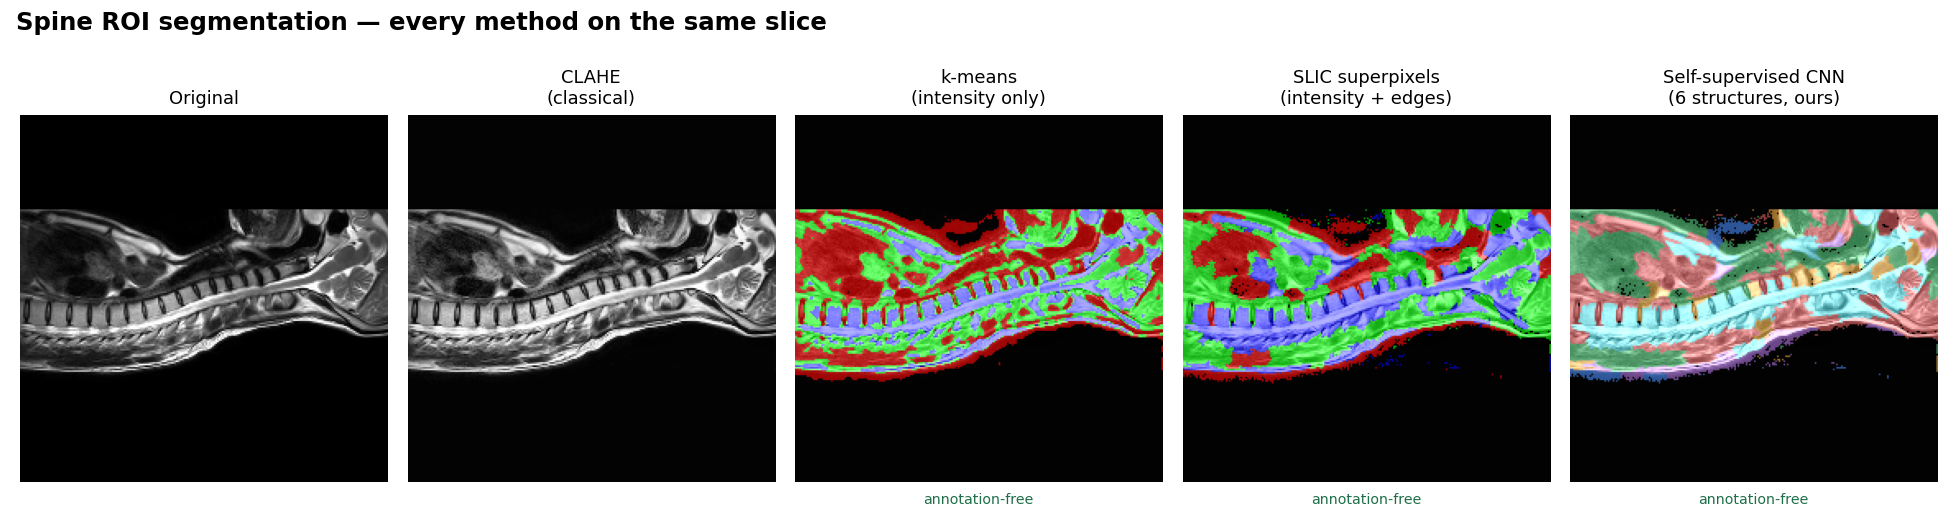
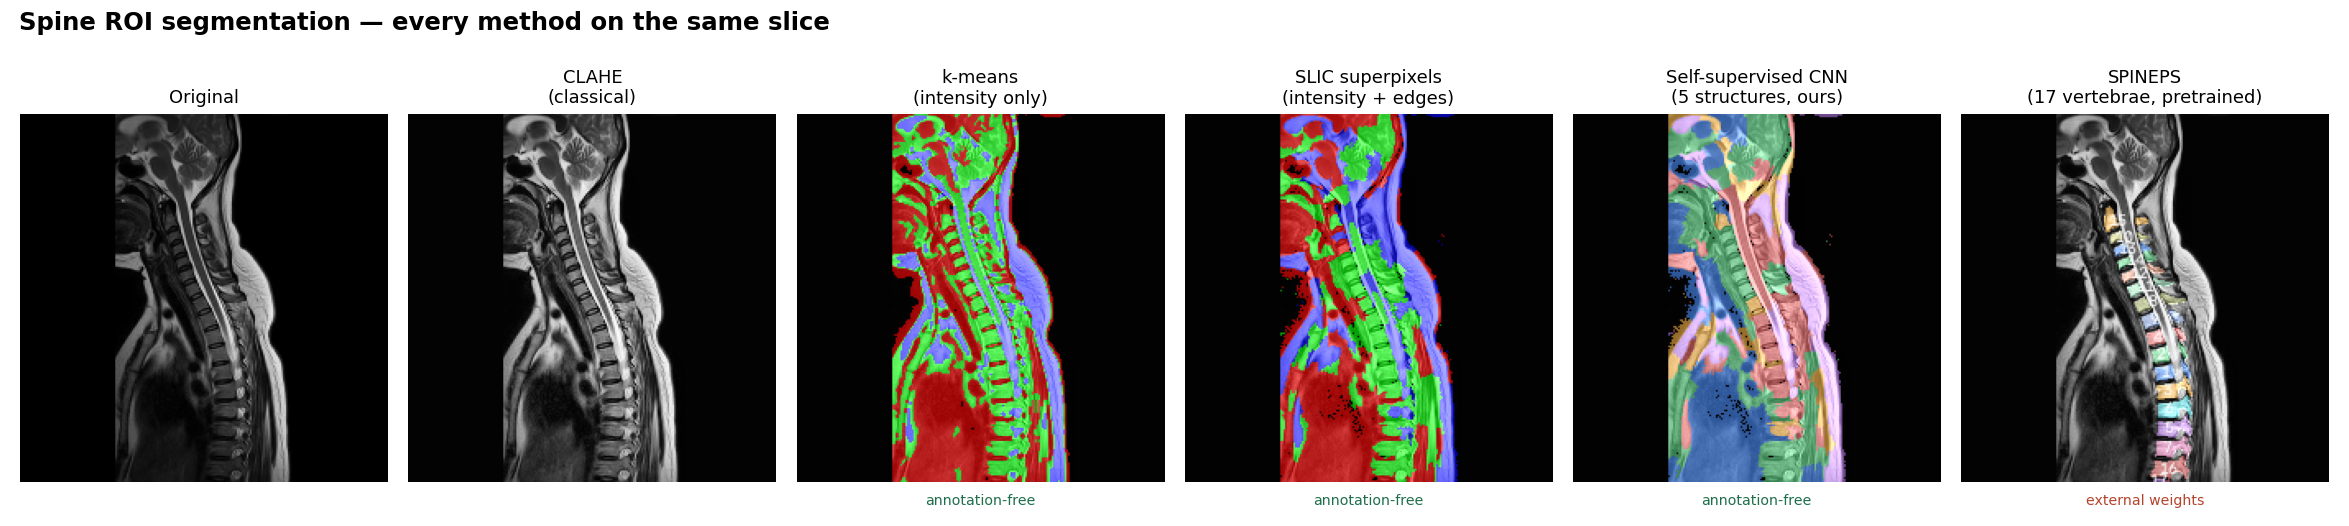
Complete SPINEPS per-vertebra instance segmentation
Produces 17 numbered vertebra instances on spine case SP11, alongside the
13-structure semantic mask, as the sixth column of the method comparison.

Two problems had to be solved:

Instance phase OOM on a 6 GB card. It reads the semantic mask SPINEPS just
saved, which is written in SPINEPS internal 0.75mm space (512x512x53)
regardless of input resolution, so downsampling the input changed nothing --
the retry failed at a byte-identical 12.44 GiB. Resolved by running that phase
on CPU (401 s total, 25 s per vertebra body).

Misaligned overlay. SPINEPS resamples AND reorients to a canonical axis order,
so masks cannot be matched to the scan by array index. Added
mask_in_scan_space() to map them back through the image affine with
nearest-neighbour resampling, since interpolating integer labels would invent
classes.

Also: the comparison figure now derives image and mask from one common slice,
so its "same slice" claim holds; both are rotated together for display.

diff --git a/src/spine_method_comparison.py b/src/spine_method_comparison.py
@@ -37,11 +37,42 @@ def _ov(img01, labels, colour_fn=None):
     return cv2.cvtColor(cv2.addWeighted(base, 0.7, col, 0.6, 0), cv2.COLOR_BGR2RGB)
 
 
-def build(nifti_path: str, spineps_instance: str = None):
+def _pick_slice(nifti_path: str, spineps_instance: str = None):
+    """Return (image_slice_in_[0,1], instance_label_map_or_None) on ONE common
+    slice. The figure's whole claim is that every method is shown on the same
+    slice, so the SPINEPS panel cannot be allowed to drift to a different z:
+    when a mask is supplied, the slice it labels most densely is the one every
+    panel uses.
+    """
     sls = extract_training_slices(load_volume(nifti_path))
     if not sls:
+        return None, None
+    if not (spineps_instance and os.path.exists(spineps_instance)):
+        return sls[len(sls) // 2], None
+
+    from spineps_runner import mask_in_scan_space
+    vol = load_volume(nifti_path)
+    m = mask_in_scan_space(spineps_instance, nifti_path)
+    ax = int(np.argmin(m.shape))
+    counts = [(np.take(m, z, axis=ax) > 0).sum() for z in range(m.shape[ax])]
+    z = int(np.argmax(counts))
+    img = np.squeeze(np.take(vol, z, axis=int(np.argmin(vol.shape)))).astype(np.float32)
+    img = (img - img.min()) / (np.ptp(img) + 1e-8)
+    # NIfTI voxel axes are not display axes: taken raw, a sagittal spine comes
+    # out lying on its side. Rotate image and mask together so the rotation
+    # cannot desynchronise them.
+    img, inst = np.rot90(img), np.rot90(np.take(m, z, axis=ax))
+    size = sls[0].shape[0]
+    img = np.clip(cv2.resize(img, (size, size), interpolation=cv2.INTER_CUBIC), 0, 1)
+    inst = cv2.resize(np.ascontiguousarray(inst).astype(np.int32), (size, size),
+                      interpolation=cv2.INTER_NEAREST)
+    return img.astype(np.float32), inst
+
+
+def build(nifti_path: str, spineps_instance: str = None):
+    img, inst = _pick_slice(nifti_path, spineps_instance)
+    if img is None:
         print("no usable slices"); return
-    img = sls[len(sls) // 2]
     enh = clahe_enhance(img)
 
     panels = [("Original", cv2.cvtColor((img * 255).astype(np.uint8), cv2.COLOR_GRAY2RGB), None)]
@@ -59,11 +90,11 @@ def build(nifti_path: str, spineps_instance: str = None):
     except Exception as e:
         print("deep segmentation unavailable:", e)
 
-    if spineps_instance and os.path.exists(spineps_instance):
+    if inst is not None:
         try:
-            from spineps_runner import instance_slice, overlay as sp_overlay
-            inst = instance_slice(spineps_instance)
-            panels.append(("SPINEPS\n(pretrained reference)",
+            from spineps_runner import overlay as sp_overlay
+            n_v = len([u for u in np.unique(inst) if u > 0])
+            panels.append((f"SPINEPS\n({n_v} vertebrae, pretrained)",
                            cv2.cvtColor(sp_overlay(enh, inst), cv2.COLOR_BGR2RGB),
                            "external weights"))
         except Exception as e:

diff --git a/src/spineps_runner.py b/src/spineps_runner.py
@@ -85,10 +85,41 @@ def run(nifti_path: str, out_dir: str = None, timeout: int = 1800) -> dict:
             "error": None if ok else "no mask produced — see stderr"}
 
 
-def instance_slice(instance_path: str, z: int = None) -> np.ndarray:
-    """Mid-sagittal slice of the instance mask, as an integer label map."""
+def mask_in_scan_space(mask_path: str, scan_path: str) -> np.ndarray:
+    """Resample a SPINEPS mask back into the ORIGINAL scan's voxel grid.
+
+    Necessary because SPINEPS does not return the mask on the input grid: it
+    resamples to ~0.8 mm isotropic AND reorients to a canonical axis order
+    before inference (measured: a 512x512x12 input came back as 503x503x53).
+    Matching masks to the scan by array index therefore produces an overlay
+    that is visibly offset and rotated — that failure is a rendering error,
+    not a segmentation error.
+
+    The affine of each image maps its voxel indices to the same physical
+    (scanner) space, so composing the two affines maps mask voxels onto scan
+    voxels correctly regardless of resolution or orientation. Nearest-neighbour
+    only: these are integer labels, interpolation would invent new ones.
+    """
     import nibabel as nib
-    vol = nib.load(instance_path).get_fdata()
+    from nibabel.processing import resample_from_to
+    m, s = nib.load(mask_path), nib.load(scan_path)
+    r = resample_from_to(m, (s.shape[:3], s.affine), order=0, cval=0)
+    return np.asarray(r.dataobj).astype(np.int32)
+
+
+def instance_slice(instance_path: str, z: int = None,
+                   scan_path: str = None) -> np.ndarray:
+    """Mid-sagittal slice of the instance mask, as an integer label map.
+
+    Pass `scan_path` whenever the slice will be drawn over the original scan —
+    without it the mask stays in SPINEPS's own resampled space and will not
+    line up. See mask_in_scan_space().
+    """
+    import nibabel as nib
+    if scan_path:
+        vol = mask_in_scan_space(instance_path, scan_path)
+    else:
+        vol = nib.load(instance_path).get_fdata()
     if vol.ndim == 2:
         return vol.astype(np.int32)
     # pick the slice carrying the most labelled voxels

diff --git a/docs/PRETRAINED_MODEL_JUSTIFICATION.md b/docs/PRETRAINED_MODEL_JUSTIFICATION.md
@@ -48,7 +48,7 @@ a limitation of effort — it is a property of the problem as specified.
 ## 3. What we tried first, and what it showed
 
 We did not reach for a pretrained model as a shortcut. We implemented and
-**measured** three annotation-free approaches first, and the evidence for each
+**measured** four annotation-free approaches first, and the evidence for each
 is in `results/`:
 
 **a) Intensity clustering (k-means, then SLIC superpixels).** Works, and it is
@@ -95,7 +95,31 @@ available data is standard practice in medical imaging, for three reasons:
 
 ---
 
-## 5. How we report it — the provenance is never hidden
+## 5. What it actually produced on our data
+
+Run on spine case **SP11** (sagittal T2w, 512x512x12):
+
+| Phase | Result |
+|---|---|
+| Semantic | **13 structures** — vertebral subregions (labels 41–49), intervertebral discs, spinal canal, spinal cord (60–62, 100) |
+| Instance | **17 individually numbered vertebrae** |
+| Runtime | 401 s total (instance phase on CPU — see `SPINEPS_SETUP.md`) |
+
+Both masks are returned on SPINEPS's own resampled, reoriented grid, so they
+are mapped back onto the original scan through the image affine
+(`spineps_runner.mask_in_scan_space`) before display. Matching by array index
+instead produces a visibly offset overlay — a rendering error rather than a
+segmentation error, but one worth naming since the figures depend on it.
+
+The comparison figure `outputs/demo/spine_method_comparison.png` shows all of
+this on **one slice**: intensity clustering groups brightness and cannot
+separate adjacent vertebrae; our self-supervised CNN resolves the cord,
+vertebral chain and soft tissue as distinct structures without annotations;
+SPINEPS adds the numbered per-vertebra instances that neither can reach.
+
+---
+
+## 6. How we report it — the provenance is never hidden
 
 - SPINEPS output is **always labelled as a pretrained model with external
   training data**, in the demo, the figures and the report.
@@ -111,7 +135,7 @@ available data is standard practice in medical imaging, for three reasons:
 
 ---
 
-## 6. Summary
+## 7. Summary
 
 > We use SPINEPS for per-vertebra spine instance segmentation because that
 > output is supervised by nature and cannot be learned from an unlabelled

diff --git a/handoff/04_PRETRAINED_MODEL_JUSTIFICATION.md b/handoff/04_PRETRAINED_MODEL_JUSTIFICATION.md
@@ -48,7 +48,7 @@ a limitation of effort — it is a property of the problem as specified.
 ## 3. What we tried first, and what it showed
 
 We did not reach for a pretrained model as a shortcut. We implemented and
-**measured** three annotation-free approaches first, and the evidence for each
+**measured** four annotation-free approaches first, and the evidence for each
 is in `results/`:
 
 **a) Intensity clustering (k-means, then SLIC superpixels).** Works, and it is
@@ -95,7 +95,31 @@ available data is standard practice in medical imaging, for three reasons:
 
 ---
 
-## 5. How we report it — the provenance is never hidden
+## 5. What it actually produced on our data
+
+Run on spine case **SP11** (sagittal T2w, 512x512x12):
+
+| Phase | Result |
+|---|---|
+| Semantic | **13 structures** — vertebral subregions (labels 41–49), intervertebral discs, spinal canal, spinal cord (60–62, 100) |
+| Instance | **17 individually numbered vertebrae** |
+| Runtime | 401 s total (instance phase on CPU — see `SPINEPS_SETUP.md`) |
+
+Both masks are returned on SPINEPS's own resampled, reoriented grid, so they
+are mapped back onto the original scan through the image affine
+(`spineps_runner.mask_in_scan_space`) before display. Matching by array index
+instead produces a visibly offset overlay — a rendering error rather than a
+segmentation error, but one worth naming since the figures depend on it.
+
+The comparison figure `outputs/demo/spine_method_comparison.png` shows all of
+this on **one slice**: intensity clustering groups brightness and cannot
+separate adjacent vertebrae; our self-supervised CNN resolves the cord,
+vertebral chain and soft tissue as distinct structures without annotations;
+SPINEPS adds the numbered per-vertebra instances that neither can reach.
+
+---
+
+## 6. How we report it — the provenance is never hidden
 
 - SPINEPS output is **always labelled as a pretrained model with external
   training data**, in the demo, the figures and the report.
@@ -111,7 +135,7 @@ available data is standard practice in medical imaging, for three reasons:
 
 ---
 
-## 6. Summary
+## 7. Summary
 
 > We use SPINEPS for per-vertebra spine instance segmentation because that
 > output is supervised by nature and cannot be learned from an unlabelled

diff --git a/docs/SPINEPS_SETUP.md b/docs/SPINEPS_SETUP.md
@@ -81,6 +81,38 @@ python src/spineps_runner.py "path/to/scan_T2w.nii.gz"
 | `instance_slice(path)` | mid-sagittal slice of the instance mask as a label map |
 | `overlay(img, inst)` | per-vertebra colouring with each vertebra numbered |
 
+### Important: the instance phase needs more than 6 GB of VRAM
+
+On a 6 GB card the semantic phase completes normally and the **instance phase
+fails**:
+
+```
+torch.OutOfMemoryError: CUDA out of memory. Tried to allocate 296.00 MiB.
+GPU 0 has a total capacity of 6.00 GiB of which 0 bytes is free.
+Of the allocated memory 12.44 GiB is allocated by PyTorch
+```
+
+**Downsampling the input does not help, and it is worth knowing why.** The
+instance phase does not read the input scan — it reads the *semantic mask
+SPINEPS just saved*, which is written in SPINEPS's own internal space
+(measured: 0.75 mm, 512x512x53) whatever the input resolution was. Feeding it a
+3.6x smaller volume produced a byte-identical 12.44 GiB failure.
+
+The fix is to run that phase on CPU:
+
+```bash
+spineps sample -i scan_T2w.nii.gz -model_semantic t2w -model_instance instance -cpu
+```
+
+Measured on this project's hardware: **401 s total**, of which 6 min 10 s was
+the 16 vertebra-body forward passes (~25 s each). If a semantic mask already
+exists from an earlier GPU run it is reused automatically, so only the instance
+phase repeats.
+
+> Note: `spineps sample -h` raises an `AssertionError` inside argparse — a bug
+> in their help formatter, not in the install. Read the flags from
+> `spineps/entrypoint.py` instead.
+
 ---
 
 ## Input requirements
